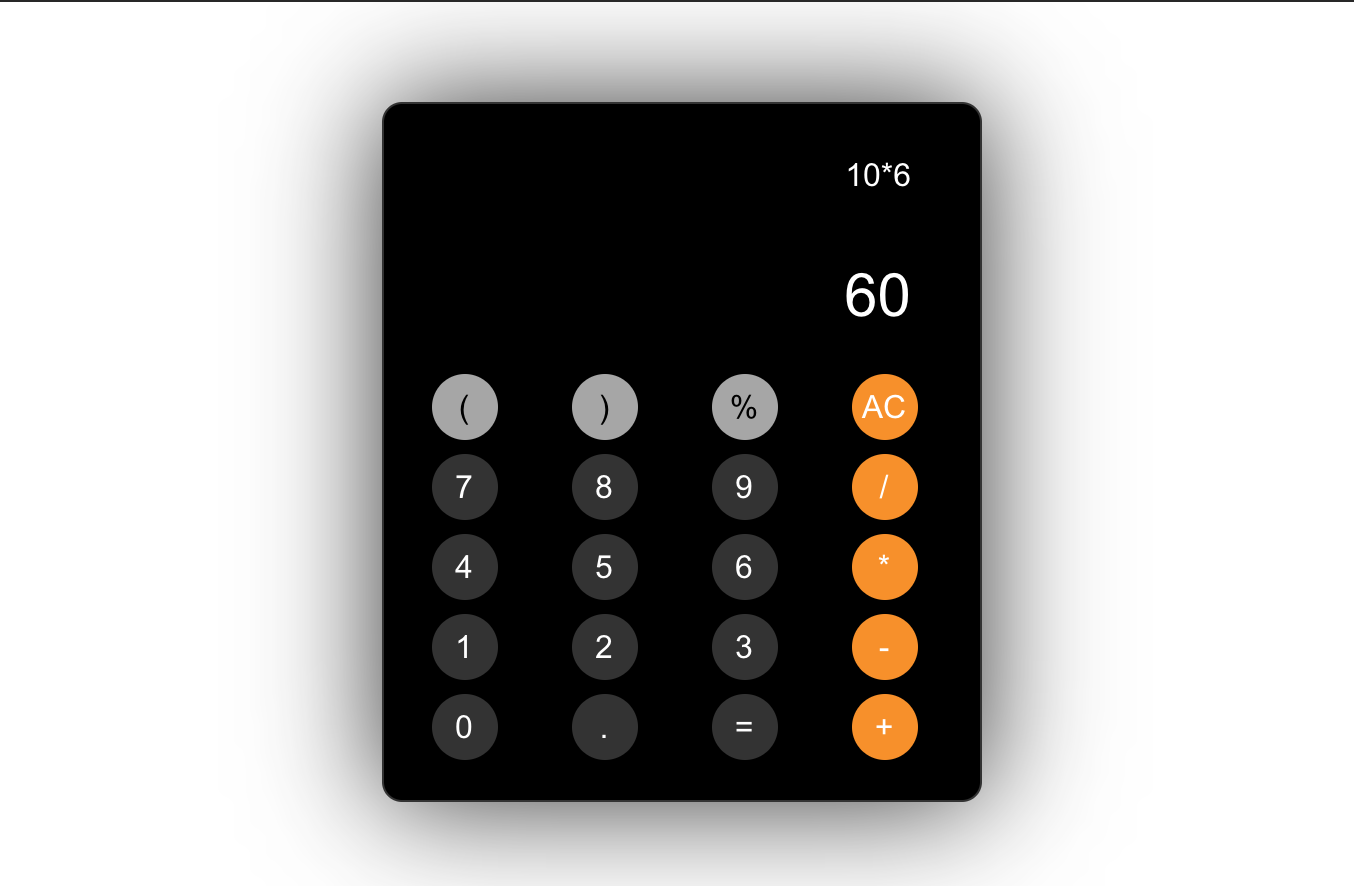
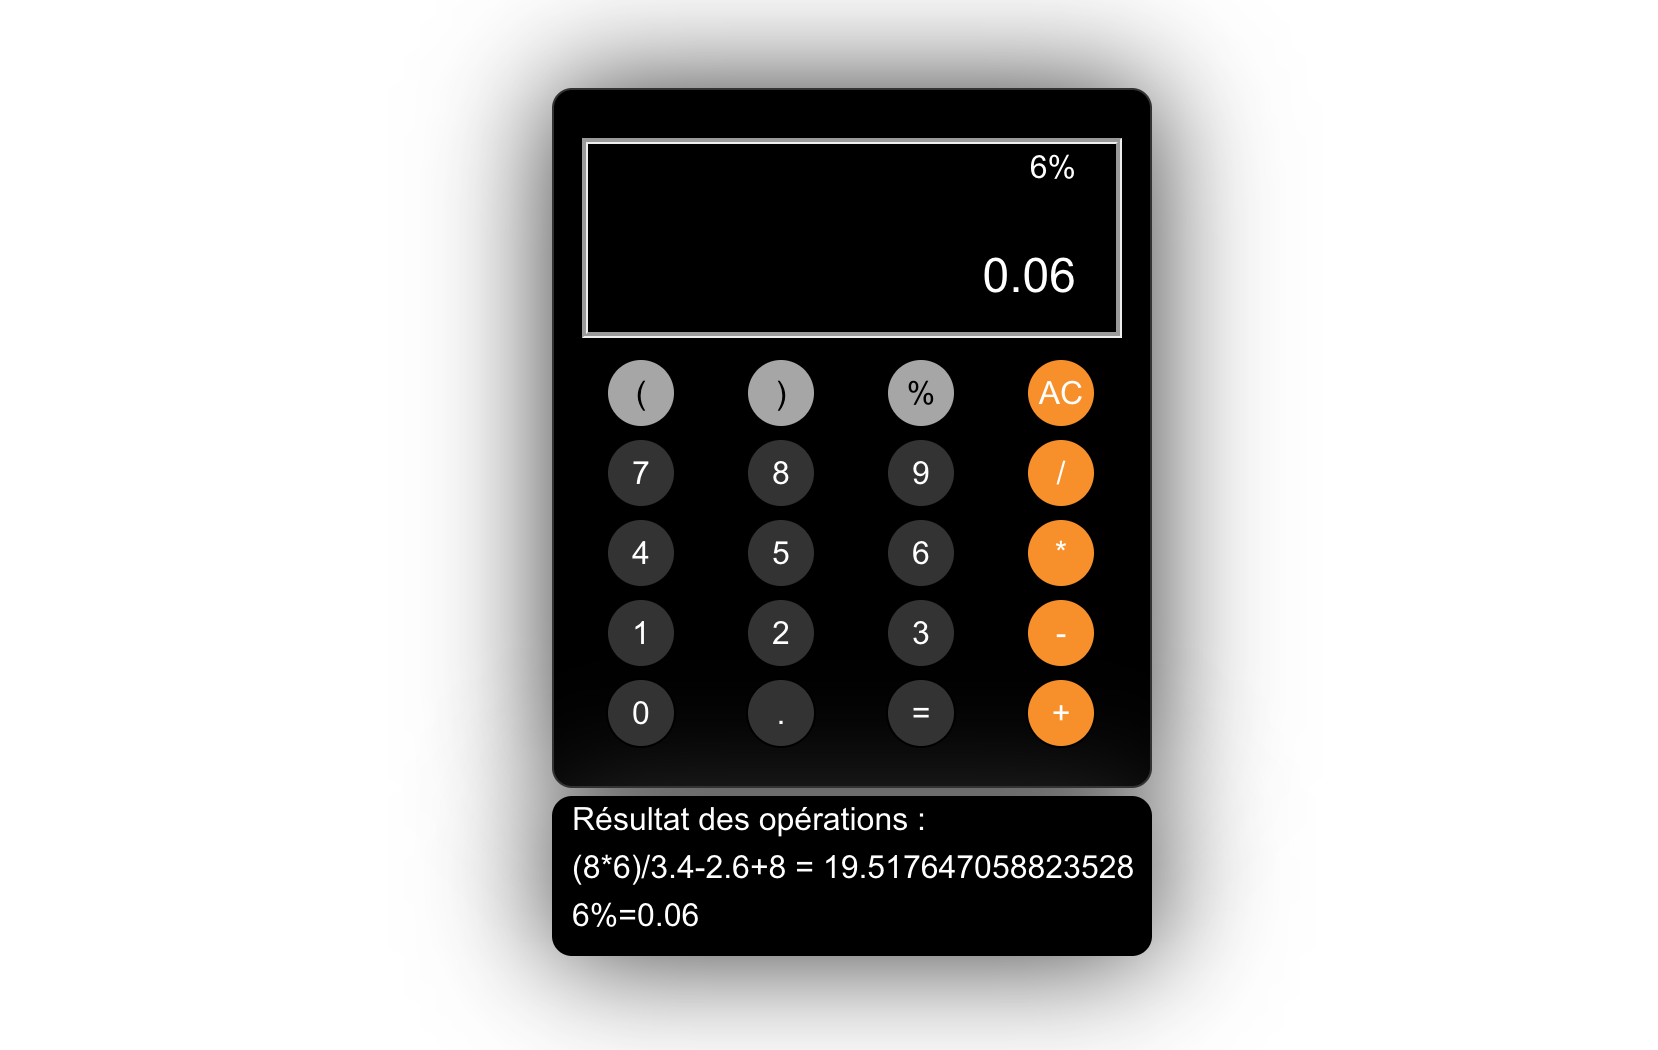
readme CSS fini

Changed region(s): [[0.2171, 0.0305, 0.7755, 0.9752]]

diff --git a/script/calculator.js b/script/calculator.js
@@ -34,7 +34,7 @@ for (let b of btn) {
 
         } else if (b.textContent == '=') {
             resultat.textContent = safeEval(calcul.textContent)
-            historique.innerHTML += calcul.textContent + '=' + resultat.textContent + linebreak;
+            historique.innerHTML += calcul.textContent + ' = ' + resultat.textContent + linebreak;
 
         } else if (b.textContent = '.') {
             if (calcul.textContent.slice(-3).includes(".")==true) {

diff --git a/script/generateCalculator.js b/script/generateCalculator.js
@@ -30,6 +30,12 @@ for (let i = 0; i < signs.length; i++) {
 const historique= document.createElement('div');
 historique.className ='historique' 
 
+const paraph = document.createElement('p')
+paraph.className = 'paraph'
+
+paraph.innerHTML='Résultat des opérations : '
+
+historique.appendChild(paraph)
 
 document.body.appendChild(calculator)
 document.body.appendChild(historique)

diff --git a/style.css b/style.css
@@ -51,8 +51,8 @@ body {
     margin: 4px auto 0 auto; 
     color:white;
     padding-left: 10px;
+    border-radius: 10px;
 }
-
 
 
 .btn {
@@ -65,7 +65,8 @@ body {
     cursor: pointer;
     background-color:#333333;
     color: white;
-    margin-left: 15%;
+    margin-left: 20%;
+    /* font-size: 18px; */
 }
 
 .btn:nth-child(2),
